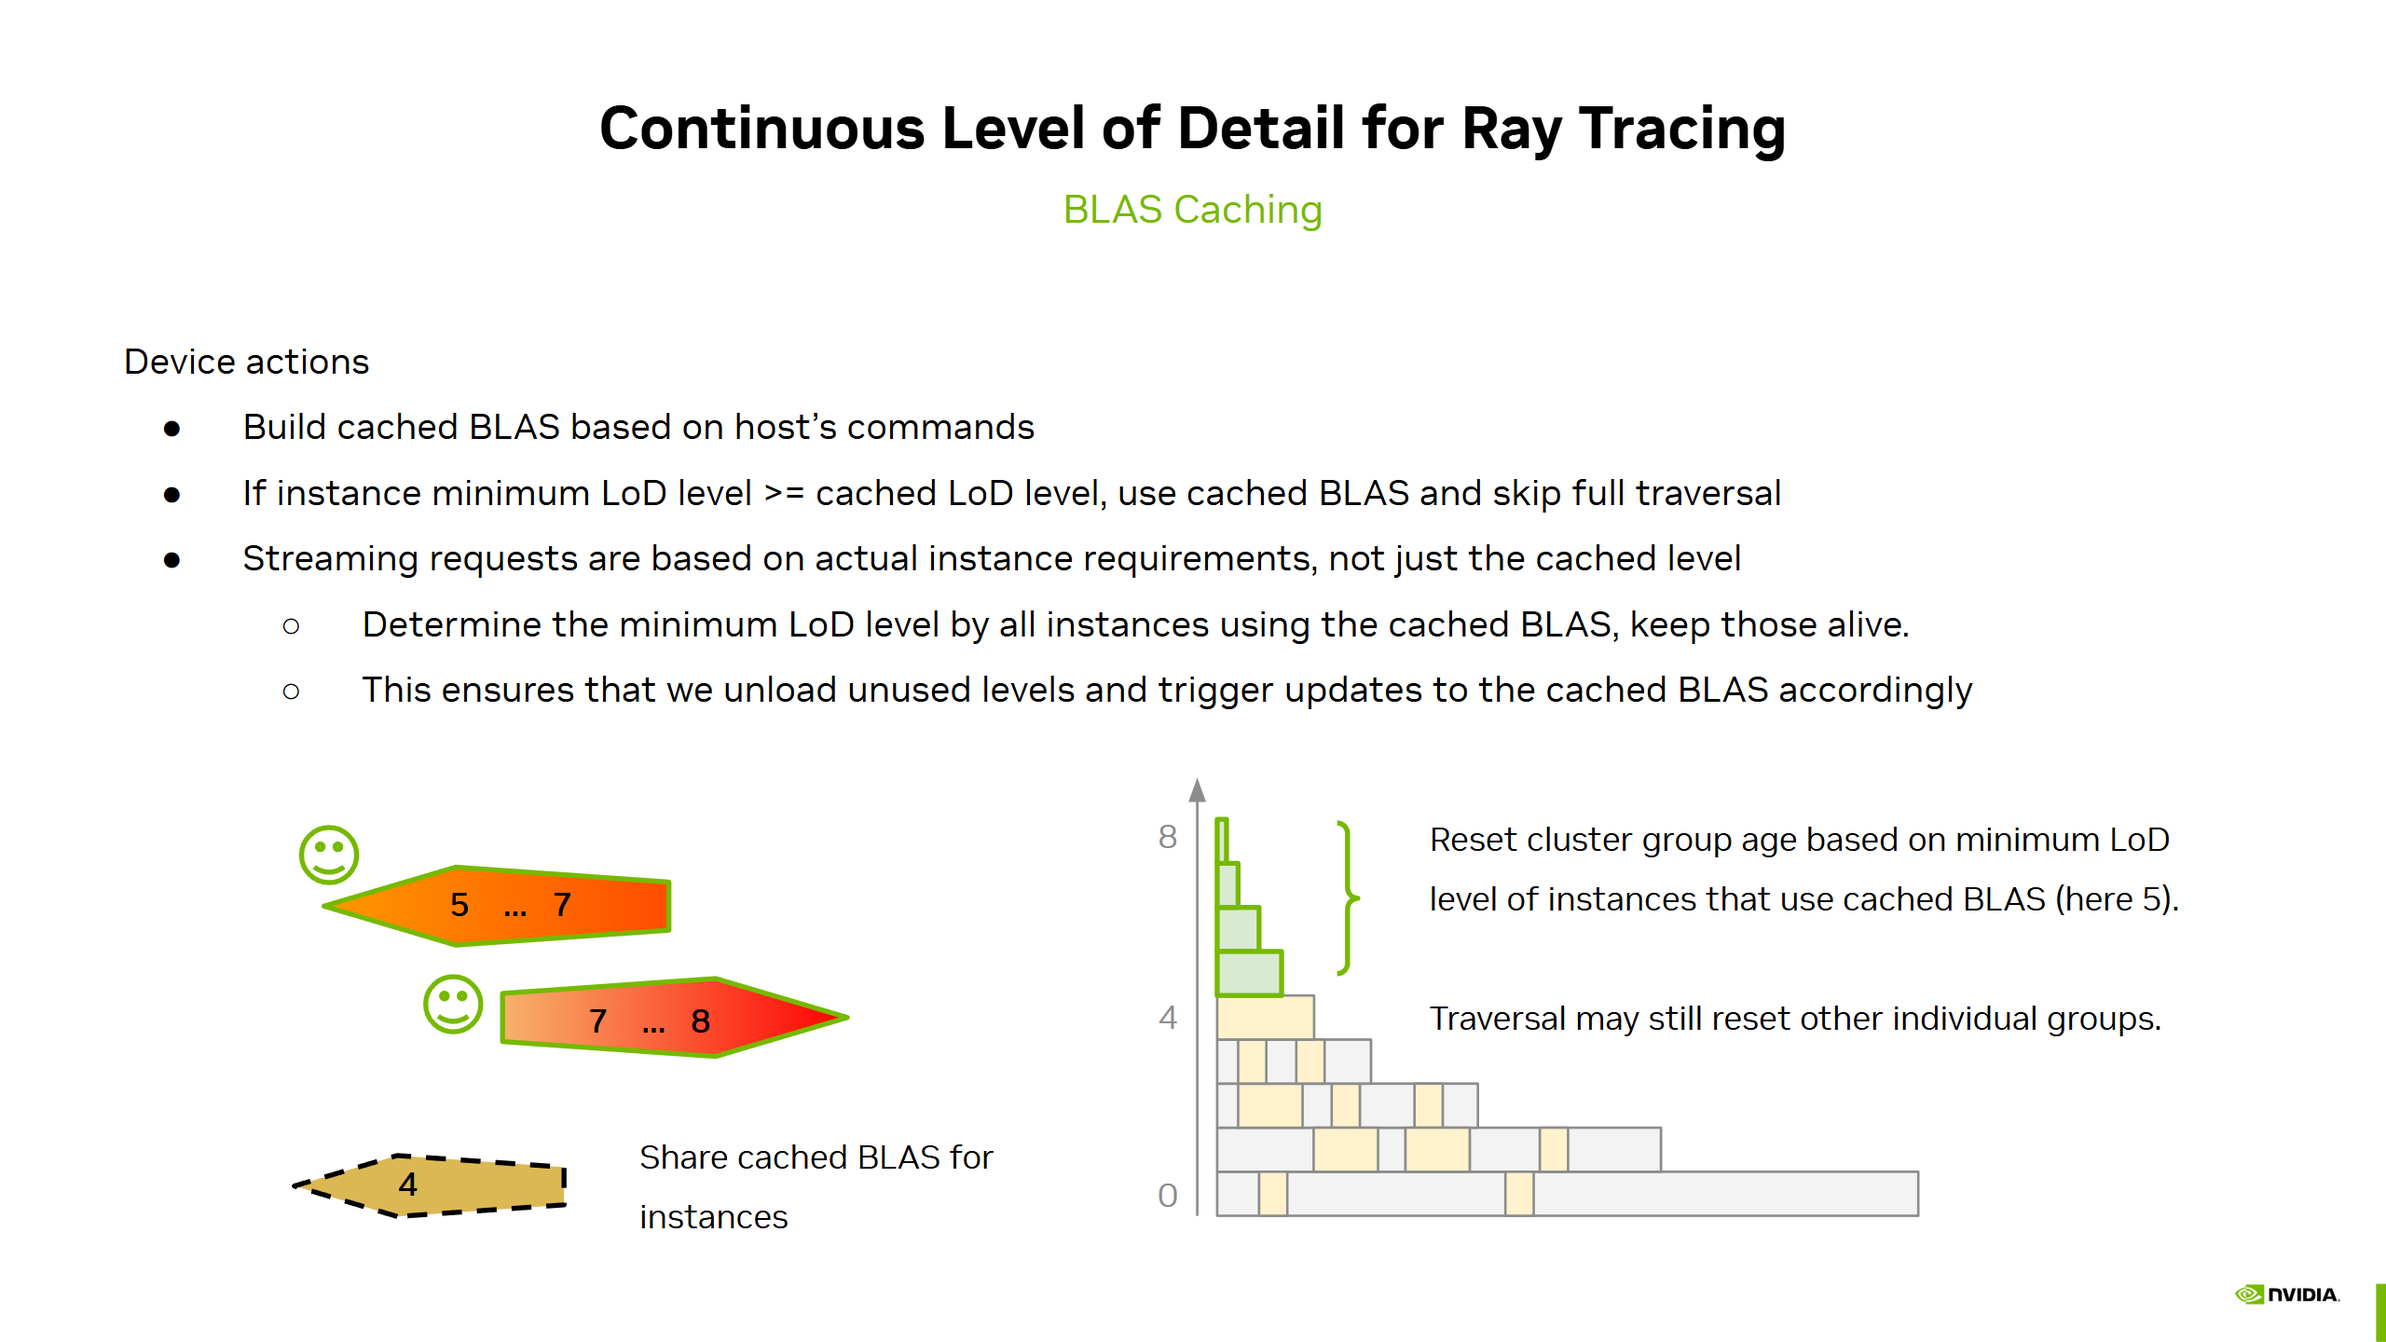
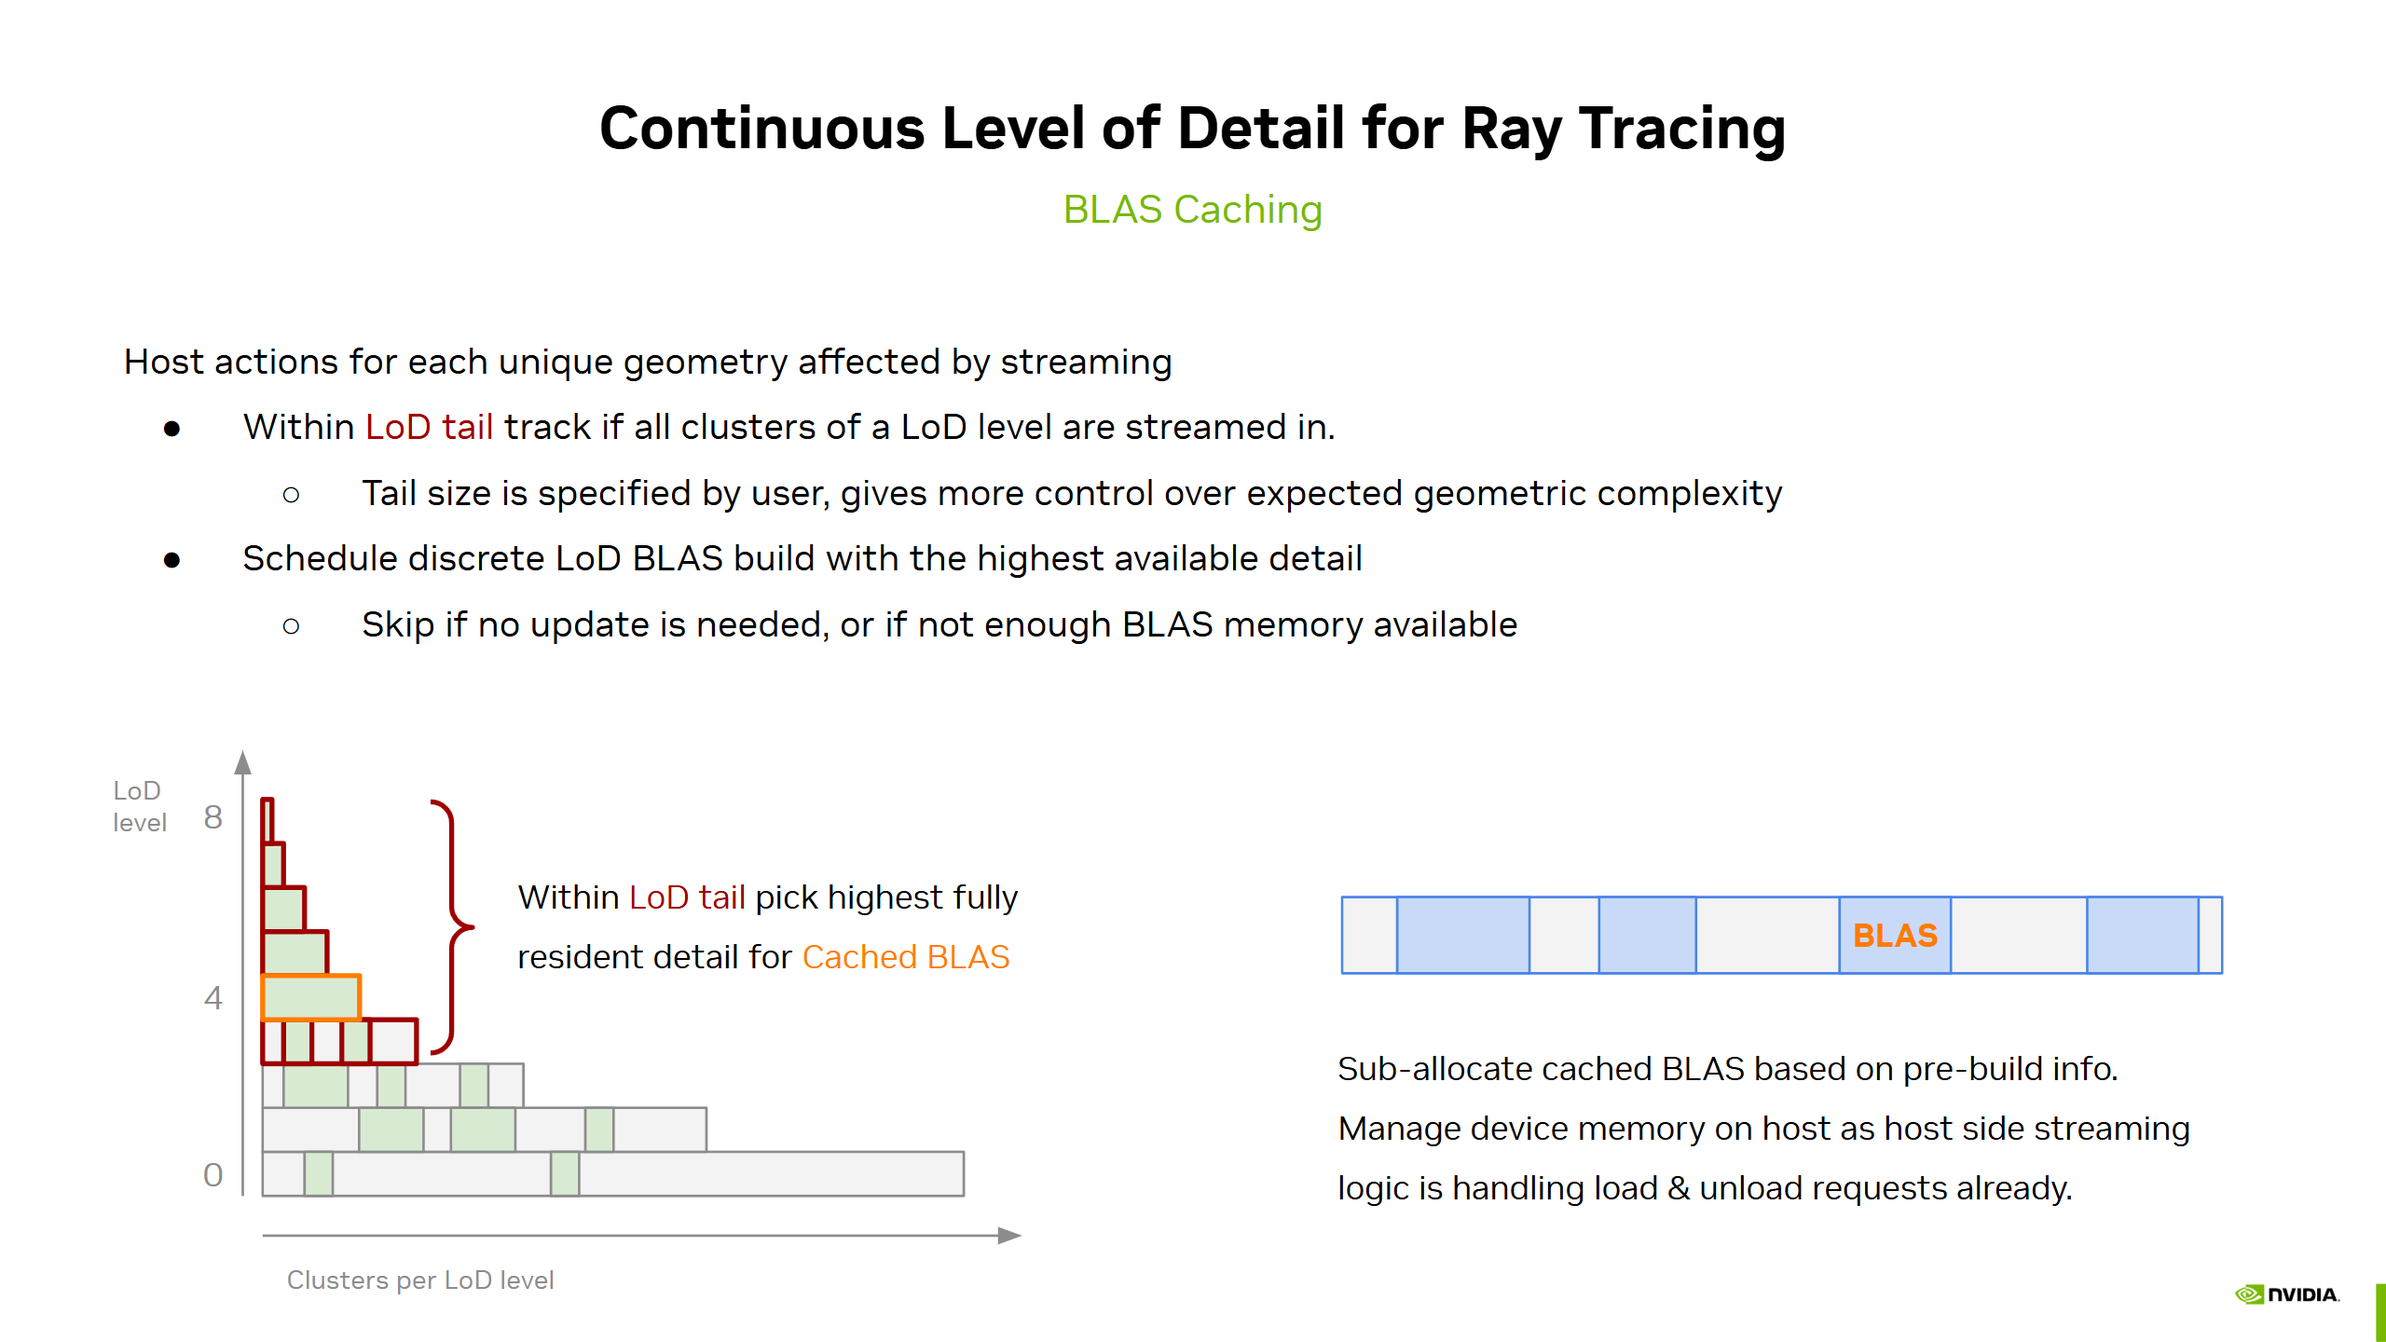
fix lod bug in 540p fixed resolution rendering
some spelling corrections

fix wrong blas_caching_host image

Script sync from SHA: 4aab998d26737a21a2247a3e03a106b2c01ff4f4

diff --git a/src/resources.cpp b/src/resources.cpp
@@ -263,55 +263,77 @@ bool Resources::initFramebuffer(const VkExtent2D& windowSize, int supersample)
 
   if(m_frameBuffer.imgColor.image != 0)
   {
-    deinitFramebuffer();
+    NVVK_CHECK(vkDeviceWaitIdle(m_device));
+
+    deinitFramebufferWindowSizeDependent();
 
     wasResize = true;
   }
 
   bool oldResolved = m_frameBuffer.supersample > 1;
 
+  VkExtent2D referenceSize = windowSize;
+
   switch(supersample)
   {
     case 540:
+      m_frameBuffer.renderScale       = glm::vec2(1.0f);
       m_frameBuffer.targetSize.width  = 960;
       m_frameBuffer.targetSize.height = 540;
+      referenceSize                   = m_frameBuffer.targetSize;
       break;
     case 720:
+      m_frameBuffer.renderScale       = glm::vec2(1.0f);
       m_frameBuffer.targetSize.width  = 1280;
       m_frameBuffer.targetSize.height = 720;
+      referenceSize                   = m_frameBuffer.targetSize;
       break;
     case 1080:
+      m_frameBuffer.renderScale       = glm::vec2(1.0f);
       m_frameBuffer.targetSize.width  = 1920;
       m_frameBuffer.targetSize.height = 1080;
       break;
     case 1440:
+      m_frameBuffer.renderScale       = glm::vec2(1.0f);
       m_frameBuffer.targetSize.width  = 2560;
       m_frameBuffer.targetSize.height = 1440;
+      referenceSize                   = m_frameBuffer.targetSize;
       break;
     case 2160:
+      m_frameBuffer.renderScale       = glm::vec2(1.0f);
       m_frameBuffer.targetSize.width  = 3840;
       m_frameBuffer.targetSize.height = 2160;
+      referenceSize                   = m_frameBuffer.targetSize;
       break;
     case 1024:
+      m_frameBuffer.renderScale       = glm::vec2(1.0f);
       m_frameBuffer.targetSize.width  = 1024;
       m_frameBuffer.targetSize.height = 1024;
+      referenceSize                   = m_frameBuffer.targetSize;
       break;
     case 2048:
+      m_frameBuffer.renderScale       = glm::vec2(1.0f);
       m_frameBuffer.targetSize.width  = 2048;
       m_frameBuffer.targetSize.height = 2048;
+      referenceSize                   = m_frameBuffer.targetSize;
       break;
     case 4096:
+      m_frameBuffer.renderScale       = glm::vec2(1.0f);
       m_frameBuffer.targetSize.width  = 4096;
       m_frameBuffer.targetSize.height = 4096;
+      referenceSize                   = m_frameBuffer.targetSize;
       break;
     default:
-      m_frameBuffer.targetSize.width  = windowSize.width * std::min(supersample, 4);
-      m_frameBuffer.targetSize.height = windowSize.height * std::min(supersample, 4);
+      supersample                     = std::min(supersample, FrameBuffer::MAX_SUPERSAMPLE);
+      m_frameBuffer.targetSize.width  = windowSize.width * supersample;
+      m_frameBuffer.targetSize.height = windowSize.height * supersample;
+      m_frameBuffer.renderScale       = glm::vec2(m_frameBuffer.renderSize.width, m_frameBuffer.renderSize.height)
+                                  / glm::vec2(m_frameBuffer.windowSize.width, m_frameBuffer.windowSize.height);
       break;
   }
 
-  m_frameBuffer.pixelScale = std::max(float(m_frameBuffer.targetSize.width) / float(windowSize.width),
-                                      float(m_frameBuffer.targetSize.height) / float(windowSize.height));
+  m_frameBuffer.pixelScale = std::max(float(m_frameBuffer.targetSize.width) / float(referenceSize.width),
+                                      float(m_frameBuffer.targetSize.height) / float(referenceSize.height));
   m_basicGraphicsState.rasterizationState.lineWidth = m_frameBuffer.pixelScale;
 
   // may be lowered due to DLSS
@@ -399,8 +421,13 @@ bool Resources::initFramebuffer(const VkExtent2D& windowSize, int supersample)
   }
 
 
-  // initial resource transitions
+  // initial resource transitions and target size dependent resources
+
+  if(m_frameBuffer.targetSize.width != m_frameBuffer.targetSizeLast.width
+     || m_frameBuffer.targetSize.height != m_frameBuffer.targetSizeLast.height)
   {
+    deinitFramebufferRenderSizeDependent();
+
     VkCommandBuffer cmd = createTempCmdBuffer();
 
 #if USE_DLSS
@@ -413,6 +440,8 @@ bool Resources::initFramebuffer(const VkExtent2D& windowSize, int supersample)
     updateFramebufferRenderSizeDependent(cmd);
 
     tempSyncSubmit(cmd);
+
+    m_frameBuffer.targetSizeLast = m_frameBuffer.targetSize;
   }
 
 
@@ -688,6 +717,12 @@ void Resources::setFramebufferDlss(bool enabled, NVSDK_NGX_PerfQuality_Value dls
 }
 #endif
 
+void Resources::deinitFramebufferWindowSizeDependent()
+{
+  m_allocator.destroyImage(m_frameBuffer.imgColor);
+  m_allocator.destroyImage(m_frameBuffer.imgColorResolved);
+}
+
 void Resources::deinitFramebufferRenderSizeDependent()
 {
   m_allocator.destroyImage(m_frameBuffer.imgDepthStencil);
@@ -708,22 +743,13 @@ void Resources::deinitFramebuffer()
 {
   NVVK_CHECK(vkDeviceWaitIdle(m_device));
 
-  m_allocator.destroyImage(m_frameBuffer.imgColor);
-  m_allocator.destroyImage(m_frameBuffer.imgColorResolved);
-
+  deinitFramebufferWindowSizeDependent();
   deinitFramebufferRenderSizeDependent();
 }
 
 glm::vec2 Resources::getFramebufferWindow2RenderScale() const
 {
-  if(m_frameBuffer.supersample >= 720)
-  {
-    // for fixed resolutions
-    return glm::vec2(1, 1);
-  }
-
-  return glm::vec2(m_frameBuffer.renderSize.width, m_frameBuffer.renderSize.height)
-         / glm::vec2(m_frameBuffer.windowSize.width, m_frameBuffer.windowSize.height);
+  return m_frameBuffer.renderScale;
 }
 
 void Resources::getReadbackData(shaderio::Readback& readback)

diff --git a/src/resources.hpp b/src/resources.hpp
@@ -196,17 +196,28 @@ public:
 
   struct FrameBuffer
   {
+    static constexpr int MAX_SUPERSAMPLE = 4;
+
     VkExtent2D renderSize{};
     VkExtent2D targetSize{};
     VkExtent2D windowSize{};
+    VkExtent2D targetSizeLast{};
+
+    glm::vec2 renderScale;
 
     // typically super resolution with respect to the window size
     // 0: off - use window resolution
     // 1: off - use window resolution
     // 2: 2x resolution along width and height
-    // 720:  fix render resolution to 1280 x 720, aspect from window
-    // 1080: fix render resolution to 1920 x 1080, aspect from window
-    // 1440: fix render resolution to 2560 x 1440, aspect from window
+    // 3: 3x resolution along width and height
+    // 4: 4x resolution along width and height
+    // 540:  fix render resolution to  960 x  540
+    // 720:  fix render resolution to 1280 x  720
+    // 1080: fix render resolution to 1920 x 1080
+    // 1440: fix render resolution to 2560 x 1440
+    // 1024: fix render resolution to square
+    // 2048: fix render resolution to square
+    // 4096: fix render resolution to square
     int supersample = 0;
 
     bool  useResolved = false;
@@ -249,6 +260,7 @@ public:
   void updateFramebufferDlss(VkCommandBuffer cmd);
   void setFramebufferDlss(bool enabled, NVSDK_NGX_PerfQuality_Value dlssQuality);
 #endif
+  void deinitFramebufferWindowSizeDependent();
   void deinitFramebufferRenderSizeDependent();
   void deinitFramebuffer();
 

diff --git a/src/lodclusters.cpp b/src/lodclusters.cpp
@@ -1095,6 +1095,8 @@ void LodClusters::onRender(VkCommandBuffer cmd)
     if(m_frames)
     {
       shaderio::FrameConstants frameCurrent = m_frameConfig.frameConstants;
+      frameCurrent.frame                    = m_frameConfig.frameConstantsLast.frame;
+      frameCurrent.jitter                   = m_frameConfig.frameConstantsLast.jitter;
 
       if(memcmp(&frameCurrent, &m_frameConfig.frameConstantsLast, sizeof(shaderio::FrameConstants)))
         m_equalFrames = 0;

diff --git a/docs/blas_caching.md b/docs/blas_caching.md
@@ -1,4 +1,4 @@
-# BLAS Caching for ray tracing cluster-based continous level of detail
+# BLAS Caching for ray tracing cluster-based continuous level of detail
 
 This technique builds upon and enhances ["BLAS Sharing"](blas_sharing.md) (Bottom Level Acceleration Structure).
 
@@ -16,23 +16,23 @@ not culling within an object.
 ![image showing instances with different lod levels but similar frame to frame](blas_caching_instances.png)
 
 A single fully loaded LoD level can be used in a rotational invariant way for all instances whose minimum LoD level is equal or greater to
-a discrete LoD level. Therfore the cached BLAS is based on a single discrete LoD level.
+a discrete LoD level. Therefore the cached BLAS is based on a single discrete LoD level.
 
 A lot of the cached BLAS logic can be implemented on the host, as the host already handles the streaming requests. The
 streaming system can detect which LoD levels have been loaded completely and see if an update to the cached BLAS is necessary.
 
 ![image presenting the list of host operations](blas_caching_host.png)
 
-We typically enable the caching for a certain number of tail LoD levels, as this gives better predictable on maximum geometric complexity of the BLAS. An object with 16 LoD levels is somewhat likely to contain roughly similar amount of geometry in its last 8 LoD levels than an object with 10 levels. If we were counting from the font, say starting at the fourth LoD level, the object with more LoD levels would yield a much more detailed cached BLAS.
+We typically enable the caching for a certain number of tail LoD levels, as this gives better predictable on maximum geometric complexity of the BLAS. An object with 16 LoD levels is somewhat likely to contain roughly similar amount of geometry in its last 8 LoD levels than an object with 10 levels. If we were counting from the front, say starting at the fourth LoD level, the object with more LoD levels would yield a much more detailed cached BLAS.
 
 Another positive effect of using the host to drive BLAS builds, is that we can also use it to sub-allocate the persistent BLAS memory
 space. We can use the pre-build information of a cluster BLAS to get a fairly accurate memory estimate for the BLAS. While for CLAS this estimate is typically inaccurate, as it depends on the triangle topology, for cluster BLAS it's very good, only depending on the number of clusters.
 
-The streaming system uses the exsiting scene level patching to provide information about cached BLAS updates and builds.
+The streaming system uses the existing scene level patching to provide information about cached BLAS updates and builds.
 
 ![image presenting the list of device operations](blas_caching_device.png)
 
-On the device we do some BLAS build prepartion, gatherhing the CLAS (Cluster Level Acceleration Structure) addresses used for the cached BLAS.
+On the device we do some BLAS build preparation, gathering the CLAS (Cluster Level Acceleration Structure) addresses used for the cached BLAS.
 Furthermore we determine if an instance's minimum LoD level is equal or greater than the cached level and can therefore use the cached BLAS instead of the per-frame BLAS.
 
 Since BLAS caching skips instance traversal, which resets the age of groups for streaming, we need to manage the age reset elsewhere. During age filtering, all streaming groups are iterated through. We check if they are part of a cached BLAS and ensure their LoD (Level of Detail) level remains active by resetting their age. The LoD level is determined by the minimum LoD level of any instance using the cached BLAS, not the cached level itself. Otherwise, unloading would never be triggered.
@@ -46,7 +46,7 @@ Note:
 * The sample kept "shared" instances independent of "cached".
   However, one might simplify the system and only classify instances in "merged" or "cached", rather than the the multiple states of
   "merged", "shared", "cached", "prebuilt low detail".
-* The sample did not build cached BLAS directly into the persisten storage, but copies them from the per-frame implicit BLAS location.
+* The sample did not build cached BLAS directly into the persistent storage, but copies them from the per-frame implicit BLAS location.
   We could build directly into the persistent memory space, but it's a bit easier in the current system to just plug into the per-frame 
   builds using implicit building mode.
 

diff --git a/docs/blas_sharing.md b/docs/blas_sharing.md
@@ -1,10 +1,10 @@
-# BLAS Sharing for ray tracing cluster-based continous level of detail
+# BLAS Sharing for ray tracing cluster-based continuous level of detail
 
 > [!NOTE]
 > Please have a look at the documentation of [nv_cluster_lod_builder](https://github.com/nvpro-samples/nv_cluster_lod_builder/blob/main/README.md) on how the cluster-based LoD system works, specifically the interaction between clusters, cluster groups and determining which clusters to render during LoD traversal.
 
 We are presenting a few techniques that reduce the number of BLAS (Bottom Level Acceleration Structure) to build for
-cluster-based continous level of detail (LoD). They are all based
+cluster-based continuous level of detail (LoD). They are all based
 around sharing a reduced set of BLAS among the instances.
 
 ![image illustrating the BLAS techniques](blas_techniques.png)
@@ -23,7 +23,7 @@ We recommend to combine BLAS merging with either BLAS caching or BLAS sharing to
 
 **BLAS Sharing** enables the re-use of a BLAS from a higher detailed instance
 for other instance's that can safely use it. It allows to reduce the number of BLAS builds
-in a continous level of detail (LoD) technique. As ray tracing is less susceptible
+in a continuous level of detail (LoD) technique. As ray tracing is less susceptible
 to performance issues from meshes with high triangle density, it is an option
 that a rasterizer would not take.
 
@@ -41,7 +41,7 @@ This is done by first classifying instances by their LoD level range, for which 
 
 ## LoD Traversal
 
-When rendering with continous LoD techniques,
+When rendering with continuous LoD techniques,
 view-dependent versions of a geometry are created with the intent
 to have more detail towards the camera viewpoint.
 
@@ -57,7 +57,7 @@ Note that the group error does not reflect the current cluster error. The rules
 above effectively cause clusters to be renderer that are "fine enough" to be below 
 the error threshold.
 
-As a result, continous LoD techniques show less transition effects
+As a result, continuous LoD techniques show less transition effects
 (LoD popping). Furthermore, rasterization performance benefits from avoiding high 
 degrees of sub-pixel triangles.
 

diff --git a/README.md b/README.md
@@ -23,7 +23,7 @@ the model and generate the required cluster and LoD data. The LoD system is orga
 
 ## Continuous level of detail using clusters
 
-For some basic description what data structures the continous LoD system uses and how it works please look [here](docs/lod_generation.md).
+For some basic description what data structures the continuous LoD system uses and how it works please look [here](docs/lod_generation.md).
 
 In principle the rendering loop is similar for rasterization and ray tracing.
 The traversal of the LoD hierarchy and the interaction with the streaming system are the same.

diff --git a/docs/blas_merging.md b/docs/blas_merging.md
@@ -1,4 +1,4 @@
-# BLAS Merging for ray tracing cluster-based continous level of detail
+# BLAS Merging for ray tracing cluster-based continuous level of detail
 
 This technique builds upon and enhances ["BLAS Sharing"](blas_sharing.md) (Bottom Level Acceleration Structure).
 
